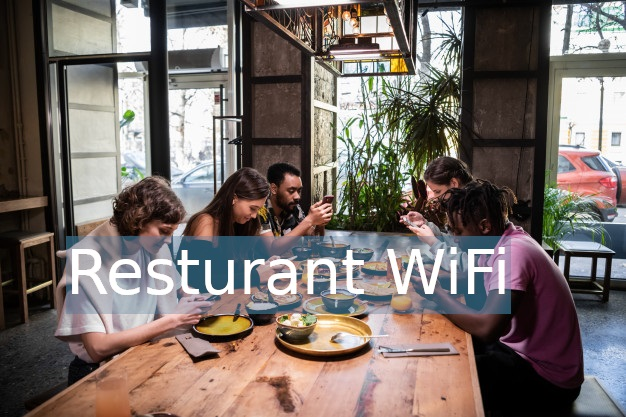
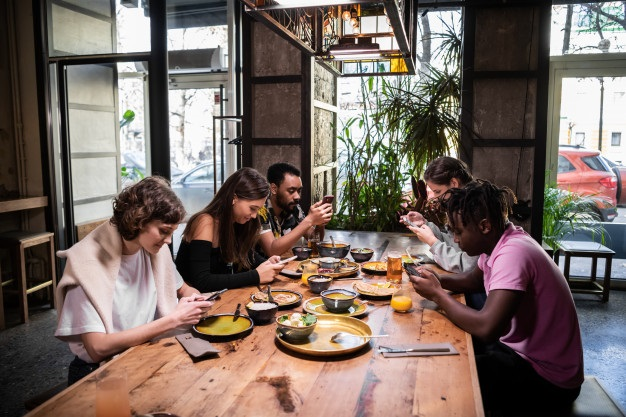
mib

Changed region(s): [[0.0911, 0.5612, 0.8195, 0.7794]]

diff --git a/static/home_page_contents/index.js b/static/home_page_contents/index.js
@@ -8,17 +8,20 @@
 var slider_text_content = [
 
     {
+        intro : "Resturant WiFi",
         header : "Improve your WiFi and guest satisfaction",
         body : "Create a free or paid Restaurant Internet access, engage guests with advertisements, collect surveys and understand what you can do better to improve guest satisfaction",
         image : "/home_page_contents/images/resturant.jpg",
 
     }, 
     {
+        intro : "Retail WiFi",
         header : "Intelligent marketing WiFi system for retail stores",
         body : "Uwireless HotSpot Retail WiFi system transforms your WiFi network into an intelligent marketing system which enables a display of video advertisements on mobile phones, tablets or laptops of customers.",
-        image : '/home_page_contents/images/retail.jpg',
+        image : '/home_page_contents/images/retail_wifi.jpg',
     },
    {
+        intro : "Hotel WiFi",
         header : 'Cloud Hotel WiFi software for easy guest WiFi control',
         body : 'Uwireless Hotspot Hotel WiFi is a robust and cost effective solution suitable for any hospitality deployment. It controls user Internet access, sets limits, engages users and helps you run different marketing strategies to maximize revenue from your hotel WiFi',
         image : '/home_page_contents/images/office_wifi.jpg',
@@ -32,7 +35,7 @@ var slider_text_content = [
 ]
 
 //on page load//load first items
-slider_data_apply( slider_text_content[0].header, slider_text_content[0].body, slider_text_content[0].image);
+slider_data_apply(slider_text_content[0].intro, slider_text_content[0].header, slider_text_content[0].body, slider_text_content[0].image);
 var current_slide = 0;
 
 //auto slider change
@@ -46,7 +49,7 @@ var slider_timer =setInterval(function(){
     }
 
     // call function every x seconds
-    slider_data_apply( slider_text_content[current_slide].header, slider_text_content[current_slide].body, slider_text_content[current_slide].image); 
+    slider_data_apply(slider_text_content[current_slide].intro, slider_text_content[current_slide].header, slider_text_content[current_slide].body, slider_text_content[current_slide].image); 
 }, 6000);
 
 
@@ -65,7 +68,7 @@ function sider_back_or_forth ( pressed){
             current_slide = slider_text_content.length -1;
         }
         // apply slider data at that position
-        slider_data_apply( slider_text_content[current_slide].header, slider_text_content[current_slide].body, slider_text_content[current_slide].image); 
+        slider_data_apply(slider_text_content[current_slide].intro, slider_text_content[current_slide].header, slider_text_content[current_slide].body, slider_text_content[current_slide].image); 
         return;
     }
 
@@ -79,14 +82,15 @@ function sider_back_or_forth ( pressed){
         }
 
         // call function every x seconds
-        slider_data_apply( slider_text_content[current_slide].header, slider_text_content[current_slide].body, slider_text_content[current_slide].image); 
+        slider_data_apply( slider_text_content[current_slide].intro, slider_text_content[current_slide].header, slider_text_content[current_slide].body, slider_text_content[current_slide].image); 
 
 }
 
 
 // function apply data
-function slider_data_apply( header, body, image){
-
+function slider_data_apply( intro, header, body, image){
+    
+    document.getElementById('hero_intro').innerHTML=intro;
     document.getElementById('hero_header').innerHTML=header;
     document.getElementById('hero_text').innerHTML=body;
     document.getElementById('hero_image').style.backgroundImage='url('+ image +')';

diff --git a/html/home_page_html/index.html b/html/home_page_html/index.html
@@ -87,7 +87,10 @@
 
         <!-- hero -->
    
-        <div id='hero_image' style="width: inherit;"> </div>
+        <div id='hero_image' style="width: inherit;">
+            <div style="width: 100%;height: 50%;"></div>
+            <div id="hero_intro" style="font-size: 30px;font-weight: bolder;min-width:50px;max-width:180px;min-height: 25px;background-color:#1ca6eb42;color:white;margin-left: 10%;text-align: center;"></div>
+        </div>
         <div id="hero_header" style="margin-top:-35px;width: inherit; height: 30px;background-color: #bdc3c7cd;font-family: 'Courier New', Courier, monospace;font-size: 13px;font-weight: bolder;"></div>
         <div id="hero_text" style="width: inherit; min-height: 60px;height:auto;font-family: 'Segoe UI', Tahoma, Geneva, Verdana, sans-serif;background-color: #bdc3c7cd;padding-top: 10px;"></div>
         <button class="btn w3-bottombar w3-margin-bottom" onclick="document.getElementById('contact_container').style.display='block'; window.location.href='#contact_container' " style="width: 30%; margin: 10px 0 0 30%; font-family: 'Segoe UI', Tahoma, Geneva, Verdana, sans-serif;border-bottom:1px solid #bdc3c7;color:#34495e;background-color: transparent;">Enquire more</button>
